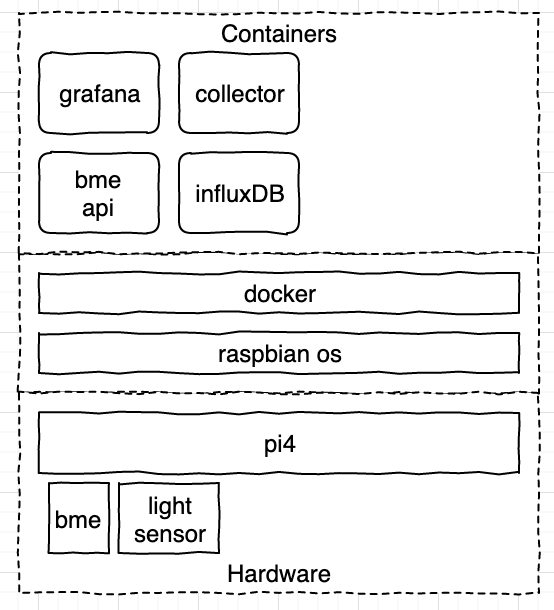
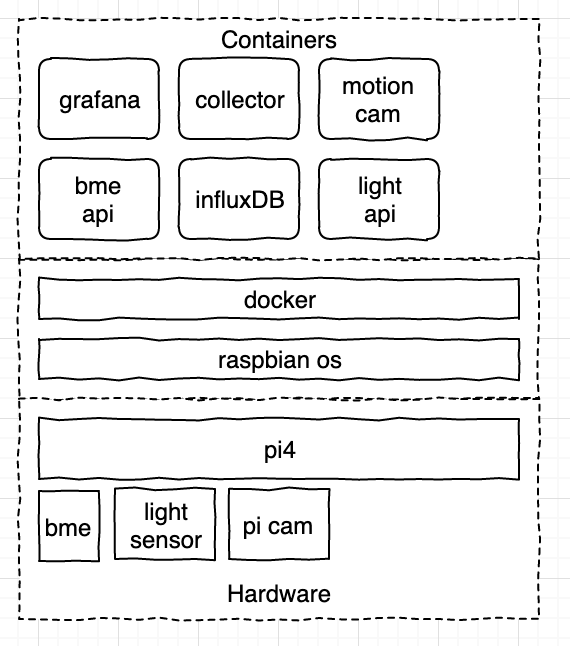
Adding light sensor collection

Changed region(s): [[0.0, 0.0, 1.0, 1.0], [0.7365, 0.9344, 0.8592, 0.9967]]

diff --git a/microDB_store/fetch_run_lightsensor.py b/microDB_store/fetch_run_lightsensor.py
@@ -1,0 +1,40 @@
+import requests
+import json
+from influxdb import InfluxDBClient
+
+
+ADDRESS='localhost:5001'
+DB_ADDRESS='localhost'
+DB_NAME='sensor_db'
+
+def to_point(payload):
+    data = []
+    measurement_name='lightsensor'
+    data.append("{measurement},location={location} lights={temperature}"
+            .format(measurement=measurement_name,
+                    location="closet1",
+                    lights=payload['light']))
+    return data
+
+def response_convert(response):
+    json_res = response.json()
+    point = to_point(json_res)
+    print(f'POINT (lightsensor): {point}')
+    return point
+
+
+try:
+    client = InfluxDBClient(host=DB_ADDRESS, port=8086)
+    client.switch_database(DB_NAME)
+except:
+    print("DB Connection broken!")
+
+
+try:
+    response = requests.get('http://' + ADDRESS + '/api/light')
+    print(f'RESPONSE (lightsensor): {response.json()}')
+    point = response_convert(response)
+
+    client.write(point, {'db':DB_NAME}, 204, 'line')
+except:
+    raise("Unable to fetch data")

diff --git a/microAPI_light-sensor/Readme.md b/microAPI_light-sensor/Readme.md
@@ -1,0 +1,7 @@
+
+
+Build Docker container:  
+`docker build -t microapi_lightsensor .`
+
+API Endpoint:  
+`http://<sensor_address>:5001/api/light`

diff --git a/microAPI_bme280/Readme.md b/microAPI_bme280/Readme.md
@@ -1,0 +1,4 @@
+# BME280
+
+API Endpoint  
+`http://<sensor_address>:5000/api/bme280`
